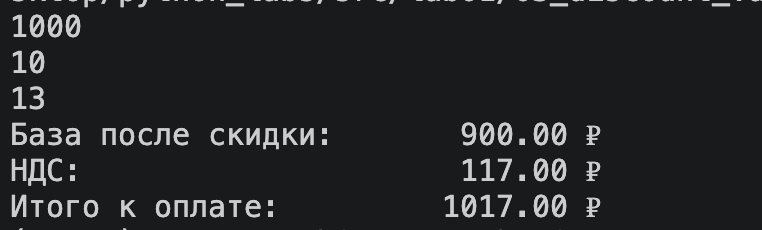
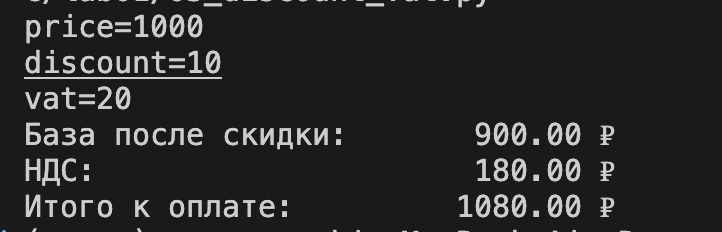
a

diff --git a/src/lab01/03_discount_vat.py b/src/lab01/03_discount_vat.py
@@ -1,6 +1,6 @@
-price = float(input('price: '))
-discount = float(input('discount: '))
-vat = float(input('vat: '))
+price = float(input('price='))
+discount = float(input('discount='))
+vat = float(input('vat='))
 base = price * (1 - discount/100)
 vat_amount = base * (vat/100)
 total = base + vat_amount
